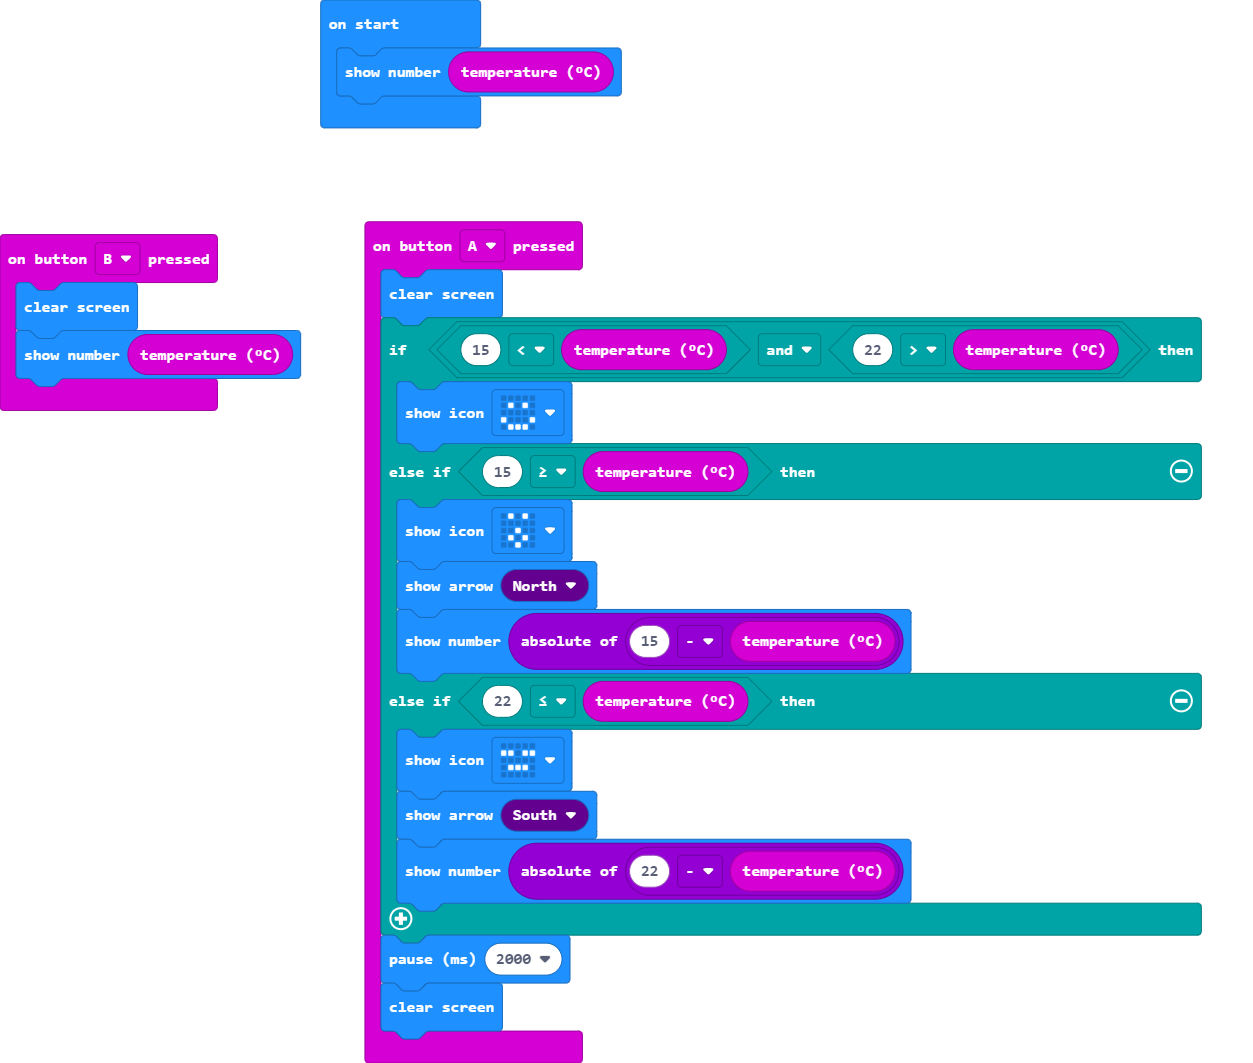
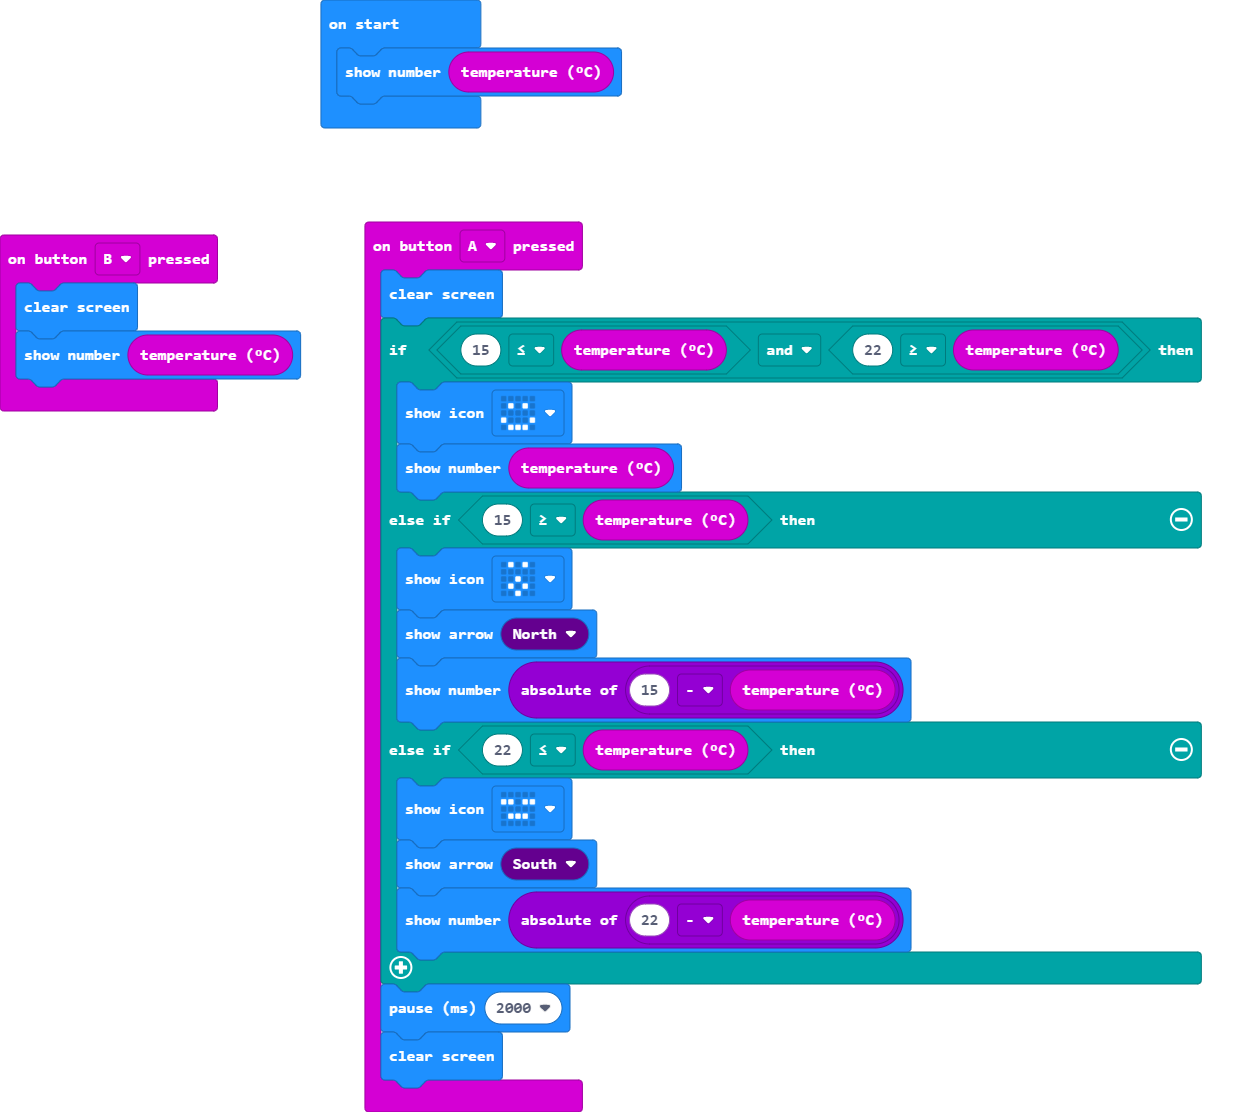
Update main.blocks, main.ts

Changed region(s): [[0.2801, 0.1863, 0.9649, 0.9934], [0.0, 0.1863, 0.249, 0.4036], [0.249, 0.0, 0.498, 0.1242]]

diff --git a/main.ts b/main.ts
@@ -1,7 +1,8 @@
 input.onButtonPressed(Button.A, function () {
     basic.clearScreen()
-    if (15 < input.temperature() && 22 > input.temperature()) {
+    if (15 <= input.temperature() && 22 >= input.temperature()) {
         basic.showIcon(IconNames.Happy)
+        basic.showNumber(input.temperature())
     } else if (15 >= input.temperature()) {
         basic.showIcon(IconNames.Surprised)
         basic.showArrow(ArrowNames.North)
